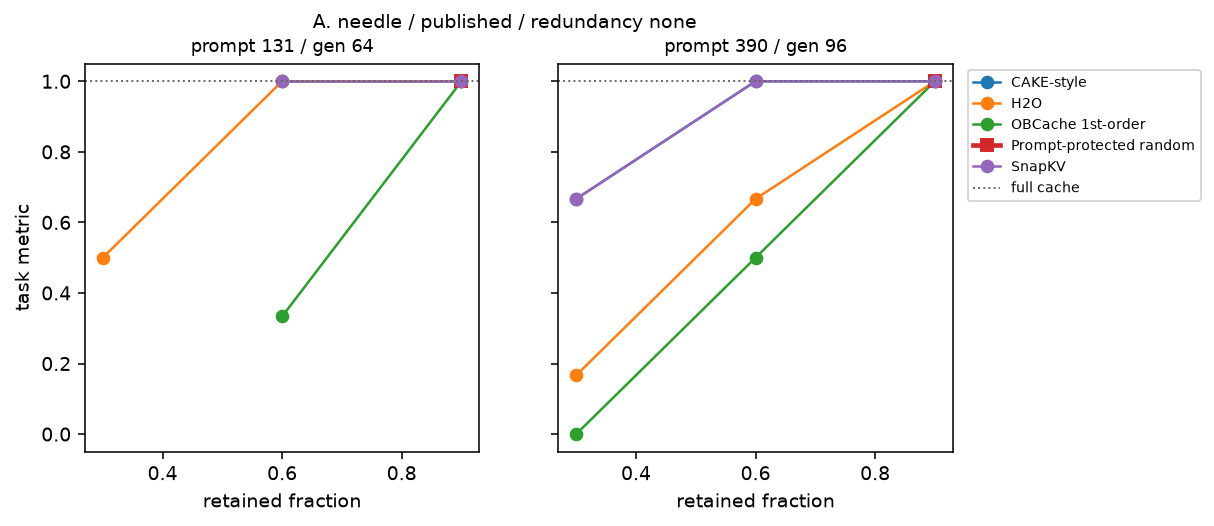
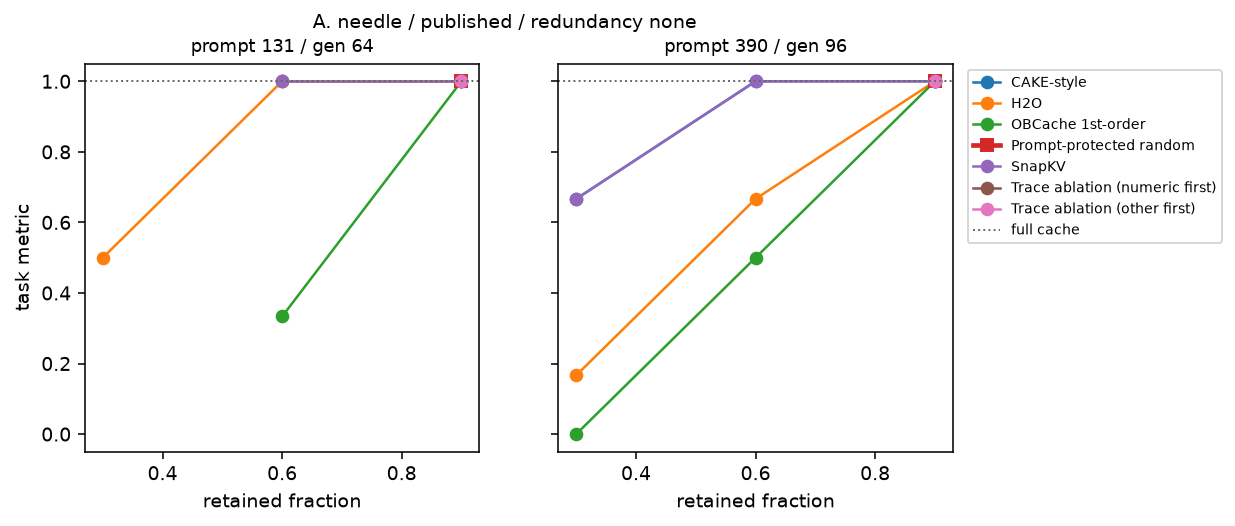
re-run the smoke over all three fixes
Preflight, sweep, analysis and figures end to end with the ablation arms in the
method list and the two seed axes swept separately. 1296 rows, 36 cells, six task
instances per cell and three eviction draws for each stochastic method, 14 figures.
The preflight report is kept with the run rather than left in a terminal.

The nesting shows up where it should: the baseline reports three draws and six
samples rather than eighteen, and the deterministic methods report zero draws rather
than borrowing the baseline's.

The separability guard fires in five cells. A distilgpt2 trace holds almost no numeric
positions, so the numeric arm exhausts its class and spills into the other one, and
both arms end up removing mostly the same positions. A null between them there would
have meant nothing while looking like a finding, which is the whole reason the counts
are recorded and checked.

The resampling-unit label said "(seed, example)" after the seeds were split. It is
written into every results file, so it said the wrong thing in the one place a reader
would go to find out what an interval covers.

diff --git a/src/kvlab/analysis.py b/src/kvlab/analysis.py
@@ -62,7 +62,7 @@ from .boundary import BoundaryRow
 
 logger = logging.getLogger(__name__)
 
-RESAMPLING_UNIT = "one (seed, example) pair"
+RESAMPLING_UNIT = "one (task_seed, example) pair; eviction draws are averaged inside it"
 BOOTSTRAP_REPLICATES = 2000
 CONFIDENCE = 0.95
 #: Retained KV is counted in whole positions per layer per head, so two methods that

diff --git a/experiments/smoke_results/README.md b/experiments/smoke_results/README.md
@@ -4,7 +4,9 @@
 about nothing else.** It exists to show that the workloads build, the runner sweeps,
 results serialize, the analysis reads them back and the figures draw.
 
-720 rows, 36 cells, 6 units per cell (3 seeds x 2 examples), 14 figures.
+1296 rows, 36 cells, 6 task instances per cell (3 task seeds x 2 examples), 3 eviction
+draws for each stochastic method, 14 figures. The preflight ran first and is recorded
+in `run_config.json`.
 
 ## What it confirms, and what it does not
 
@@ -15,6 +17,12 @@ mistake the check exists to prevent.
 
 `needle` it can do, so those cells carry the only interpretable numbers here, and even
 those are a two-shape CPU run at three retained fractions. They are not a result.
+
+The trace ablation is flagged unseparable in five cells: a distilgpt2 trace holds very
+few numeric positions, so the numeric arm exhausts its class and spills into the other
+one, at which point both arms remove mostly the same positions. That is the guard
+working. It is also the reason the intervention belongs at mild compression, and the
+reason a null between the arms here would mean nothing.
 
 ## Files
 
